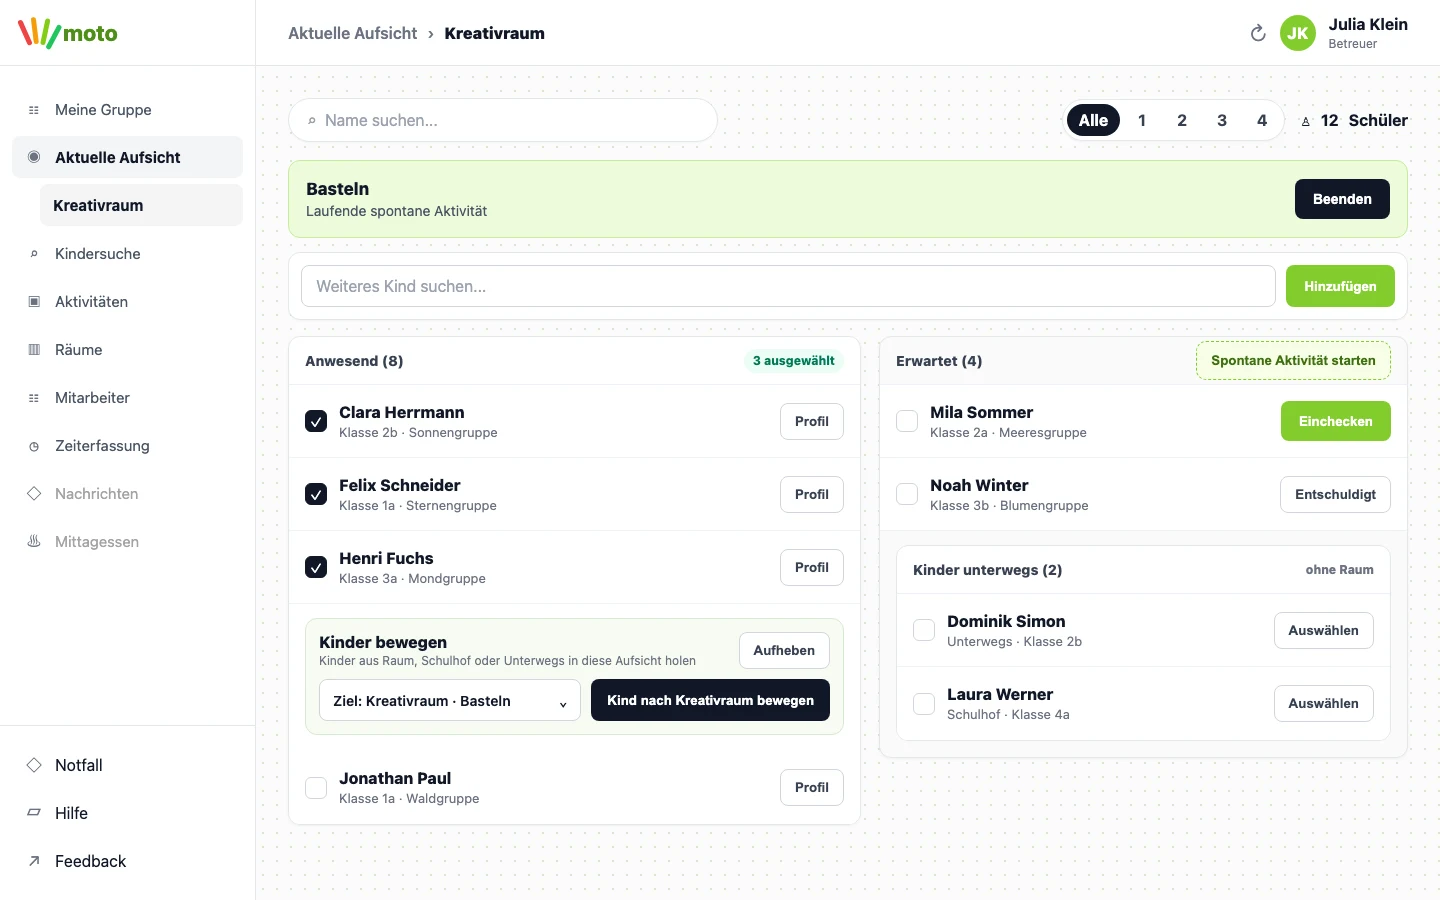
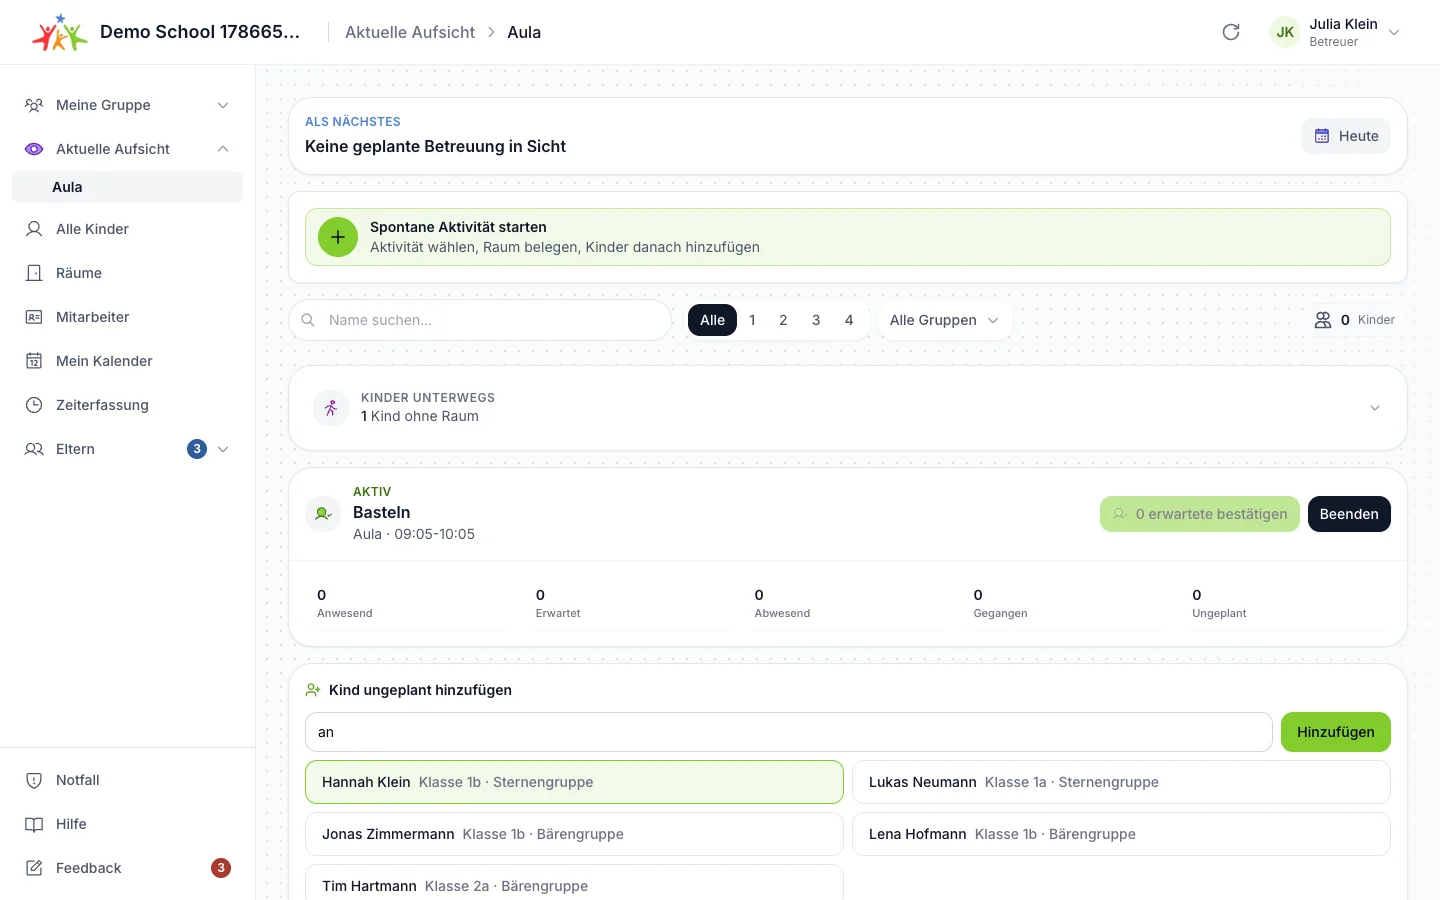
fix: keep unplanned search selection in sync

diff --git a/frontend/src/app/[tenant]/(protected)/active-supervisions/page.tsx b/frontend/src/app/[tenant]/(protected)/active-supervisions/page.tsx
@@ -603,7 +603,7 @@ interface AddUnplannedStudentFormProps {
   readonly isAddingStudent: boolean;
   readonly results: Student[];
   readonly search: string;
-  readonly onAdd: (studentId: string) => Promise<void>;
+  readonly onAdd: (studentId: string) => Promise<boolean>;
   readonly onSearchChange: (value: string) => void;
 }
 
@@ -622,8 +622,9 @@ function AddUnplannedStudentForm({
   const targetStudent =
     selectedStudent ?? (results.length === 1 ? (results[0] ?? null) : null);
   const addStudent = async (studentId: string) => {
-    await onAdd(studentId);
-    setSelectedId(null);
+    if (await onAdd(studentId)) {
+      setSelectedId(null);
+    }
   };
   const handleSubmit = async (event: React.FormEvent<HTMLFormElement>) => {
     event.preventDefault();
@@ -650,7 +651,10 @@ function AddUnplannedStudentForm({
           name="unplanned-student-search"
           aria-label="Kind ungeplant suchen"
           value={search}
-          onChange={(event) => onSearchChange(event.target.value)}
+          onChange={(event) => {
+            setSelectedId(null);
+            onSearchChange(event.target.value);
+          }}
           placeholder="Weiteres Kind suchen..."
           className="focus:border-moto-green focus:ring-moto-green/20 min-h-10 flex-1 rounded-lg border border-gray-300 px-3 text-sm focus:ring-2 focus:outline-none"
         />
@@ -668,9 +672,11 @@ function AddUnplannedStudentForm({
             const studentId = student.id.toString();
             const isSelected = selectedStudent?.id.toString() === studentId;
             return (
-              <button
+              <Button
                 key={student.id}
                 type="button"
+                variant="ghost"
+                size="md"
                 disabled={isAddingStudent}
                 aria-pressed={isSelected}
                 onClick={() =>
@@ -678,10 +684,10 @@ function AddUnplannedStudentForm({
                     prev === studentId ? null : studentId,
                   )
                 }
-                className={`min-h-11 rounded-md border px-3 py-2 text-left text-sm disabled:opacity-50 ${
+                className={`min-h-11 w-full !justify-start border px-3 text-left !shadow-none ${
                   isSelected
-                    ? "border-moto-green bg-moto-green/10"
-                    : "hover:border-moto-green border-gray-200"
+                    ? "!border-moto-green !bg-moto-green/10 hover:!bg-moto-green/15"
+                    : "hover:!border-moto-green !border-gray-200 !bg-transparent hover:!bg-gray-100"
                 }`}
               >
                 <span className="font-medium text-gray-900">
@@ -695,7 +701,7 @@ function AddUnplannedStudentForm({
                     .filter(Boolean)
                     .join(" · ")}
                 </span>
-              </button>
+              </Button>
             );
           })}
         </div>
@@ -718,7 +724,7 @@ interface TimetableRosterContentProps {
   readonly isConfirmingExpected: boolean;
   readonly roster: TimetableRoster;
   readonly showTimetableCounts: boolean;
-  readonly onAddStudent: (studentId: string) => Promise<void>;
+  readonly onAddStudent: (studentId: string) => Promise<boolean>;
   readonly onComplete: () => Promise<void>;
   readonly onConfirmExpected: (rows: TimetableRosterRow[]) => Promise<void>;
   readonly onRosterAction: RosterRowActionsProps["onAction"];
@@ -1556,6 +1562,7 @@ function MeinRaumPageContent() {
       return;
     }
 
+    let cancelled = false;
     const timeout = window.setTimeout(() => {
       fetchStudents({
         search: addStudentSearch.trim(),
@@ -1563,9 +1570,12 @@ function MeinRaumPageContent() {
         page_size: 5,
       })
         .then((result) => {
-          setAddStudentResults(result.students);
+          if (!cancelled) {
+            setAddStudentResults(result.students);
+          }
         })
         .catch((err) => {
+          if (cancelled) return;
           logger.warn("failed to search students for timetable roster", {
             error: err instanceof Error ? err.message : String(err),
           });
@@ -1573,7 +1583,10 @@ function MeinRaumPageContent() {
         });
     }, 250);
 
-    return () => window.clearTimeout(timeout);
+    return () => {
+      cancelled = true;
+      window.clearTimeout(timeout);
+    };
   }, [activeTimetableInstanceId, addStudentSearch]);
 
   // Tracking indicators: fetch when student list changes (SSE-driven via SWR revalidation)
@@ -1930,7 +1943,7 @@ function MeinRaumPageContent() {
 
   const handleAddUnplannedStudent = useCallback(
     async (studentId: string) => {
-      if (!activeTimetableInstanceId) return;
+      if (!activeTimetableInstanceId) return false;
       try {
         setIsAddingStudent(true);
         const roster = await timetableOperationsApi.checkIn(
@@ -1940,12 +1953,14 @@ function MeinRaumPageContent() {
         setAddStudentSearch("");
         setAddStudentResults([]);
         await mutateRoster(roster, { revalidate: false });
+        return true;
       } catch (err) {
         logger.error("failed to add unplanned timetable student", {
           student_id: studentId,
           error: err instanceof Error ? err.message : String(err),
         });
         setError("Kind konnte nicht zur Aktivität hinzugefügt werden.");
+        return false;
       } finally {
         setIsAddingStudent(false);
       }
@@ -2308,7 +2323,10 @@ function MeinRaumPageContent() {
           onComplete={handleCompleteTimetableInstance}
           onConfirmExpected={handleConfirmExpectedStudents}
           onRosterAction={handleRosterAction}
-          onSearchChange={setAddStudentSearch}
+          onSearchChange={(value) => {
+            setAddStudentSearch(value);
+            setAddStudentResults([]);
+          }}
         />
       );
     }

diff --git a/frontend/src/app/[tenant]/(protected)/active-supervisions/page.part12.test.tsx b/frontend/src/app/[tenant]/(protected)/active-supervisions/page.part12.test.tsx
@@ -382,7 +382,7 @@ describe("AddUnplannedStudentForm selection flow (#2387)", () => {
     fireEvent.change(input, { target: { value } });
   };
 
-  it("requires tapping a result before adding when the search has multiple matches", async () => {
+  it("requires a selection and invalidates old results when the search changes", async () => {
     vi.mocked(fetchStudents).mockResolvedValue({
       students: [
         makeStudent("201", "Marie", "Beier"),
@@ -413,11 +413,11 @@ describe("AddUnplannedStudentForm selection flow (#2387)", () => {
       screen.queryByText("Bitte ein Kind aus der Liste antippen."),
     ).not.toBeInTheDocument();
 
-    fireEvent.click(addButton);
+    await searchFor("Lara");
 
-    await waitFor(() => {
-      expect(timetableOperationsApi.checkIn).toHaveBeenCalledWith("99", "201");
-    });
+    expect(screen.queryByRole("button", { name: /Marie Beier/ })).toBeNull();
+    expect(addButton).toBeDisabled();
+    expect(timetableOperationsApi.checkIn).not.toHaveBeenCalled();
   });
 
   it("switches the selection when another result is tapped", async () => {
@@ -443,10 +443,27 @@ describe("AddUnplannedStudentForm selection flow (#2387)", () => {
     expect(beierCard).toHaveAttribute("aria-pressed", "false");
     expect(garschagenCard).toHaveAttribute("aria-pressed", "true");
 
+    vi.mocked(timetableOperationsApi.checkIn).mockRejectedValueOnce(
+      new Error("check-in failed"),
+    );
     fireEvent.click(screen.getByRole("button", { name: "Hinzufügen" }));
 
     await waitFor(() => {
-      expect(timetableOperationsApi.checkIn).toHaveBeenCalledWith("99", "202");
+      expect(
+        screen.getByText("Kind konnte nicht zur Aktivität hinzugefügt werden."),
+      ).toBeInTheDocument();
+    });
+    expect(garschagenCard).toHaveAttribute("aria-pressed", "true");
+    expect(screen.getByRole("button", { name: "Hinzufügen" })).toBeEnabled();
+
+    fireEvent.click(screen.getByRole("button", { name: "Hinzufügen" }));
+
+    await waitFor(() => {
+      expect(timetableOperationsApi.checkIn).toHaveBeenCalledTimes(2);
+      expect(timetableOperationsApi.checkIn).toHaveBeenLastCalledWith(
+        "99",
+        "202",
+      );
     });
   });
 

diff --git a/frontend/src/components/help/guide-data.ts b/frontend/src/components/help/guide-data.ts
@@ -697,7 +697,8 @@ export const appChapters: readonly GuideChapter[] = [
           "Bei anwesendem Kind auf `Einchecken` klicken.",
           "Bei bekannter Abwesenheit `Entschuldigt` wählen.",
           "Falsche Markierung mit `Zurück auf erwartet` korrigieren.",
-          "Ungeplantes Kind über `Weiteres Kind suchen...` finden, in der Trefferliste antippen und mit `Hinzufügen` bestätigen.",
+          "Ungeplantes Kind über `Weiteres Kind suchen...` finden.",
+          "Bei mehreren Treffern ein Kind antippen. Danach `Hinzufügen` wählen. Bei einem Treffer direkt `Hinzufügen` wählen.",
           "Im Bereich `Kinder unterwegs` Kinder ohne Raum auswählen, einen Zielraum wählen und mit `In Raum setzen` zuweisen.",
           "Den Schulhof über den Schulhof-Tab und `Beaufsichtigen` führen. Läuft dort bereits eine Aufsicht oder ein gestarteter Termin, treten Sie als weitere Aufsicht bei; sonst startet eine spontane Schulhof-Aufsicht. Im Dialog für eine spontane Aktivität lässt sich der Raum `Schulhof` wie jeder andere Raum wählen.",
           "Für ein neues Angebot `Spontane Aktivität starten`.",
@@ -712,7 +713,7 @@ export const appChapters: readonly GuideChapter[] = [
           body: "Wird einer Aktivität eine ganze Gruppe, Klasse oder Jahrgangsstufe zugewiesen, gehören alle Kinder dauerhaft dazu. Wer laut seinen `Betreuungszeiten` an diesem Wochentag gar nicht in der OGS ist, erscheint deshalb grau als `Nicht eingeplant` und zählt nicht zu `Erwartet`. Das Kind bleibt trotzdem in der Liste: Kommt es doch, checken Sie es ganz normal ein. Kinder ohne hinterlegte Betreuungszeiten gelten weiterhin als erwartet.",
         },
         screenshot:
-          "Laufende Aufsicht mit Anwesend, Kinder unterwegs und Spontane Aktivität.",
+          "Laufende Aufsicht mit ausgewähltem Suchtreffer vor dem Hinzufügen.",
         image: "/help/screens/aktuelle-aufsicht.webp",
       },
       {
